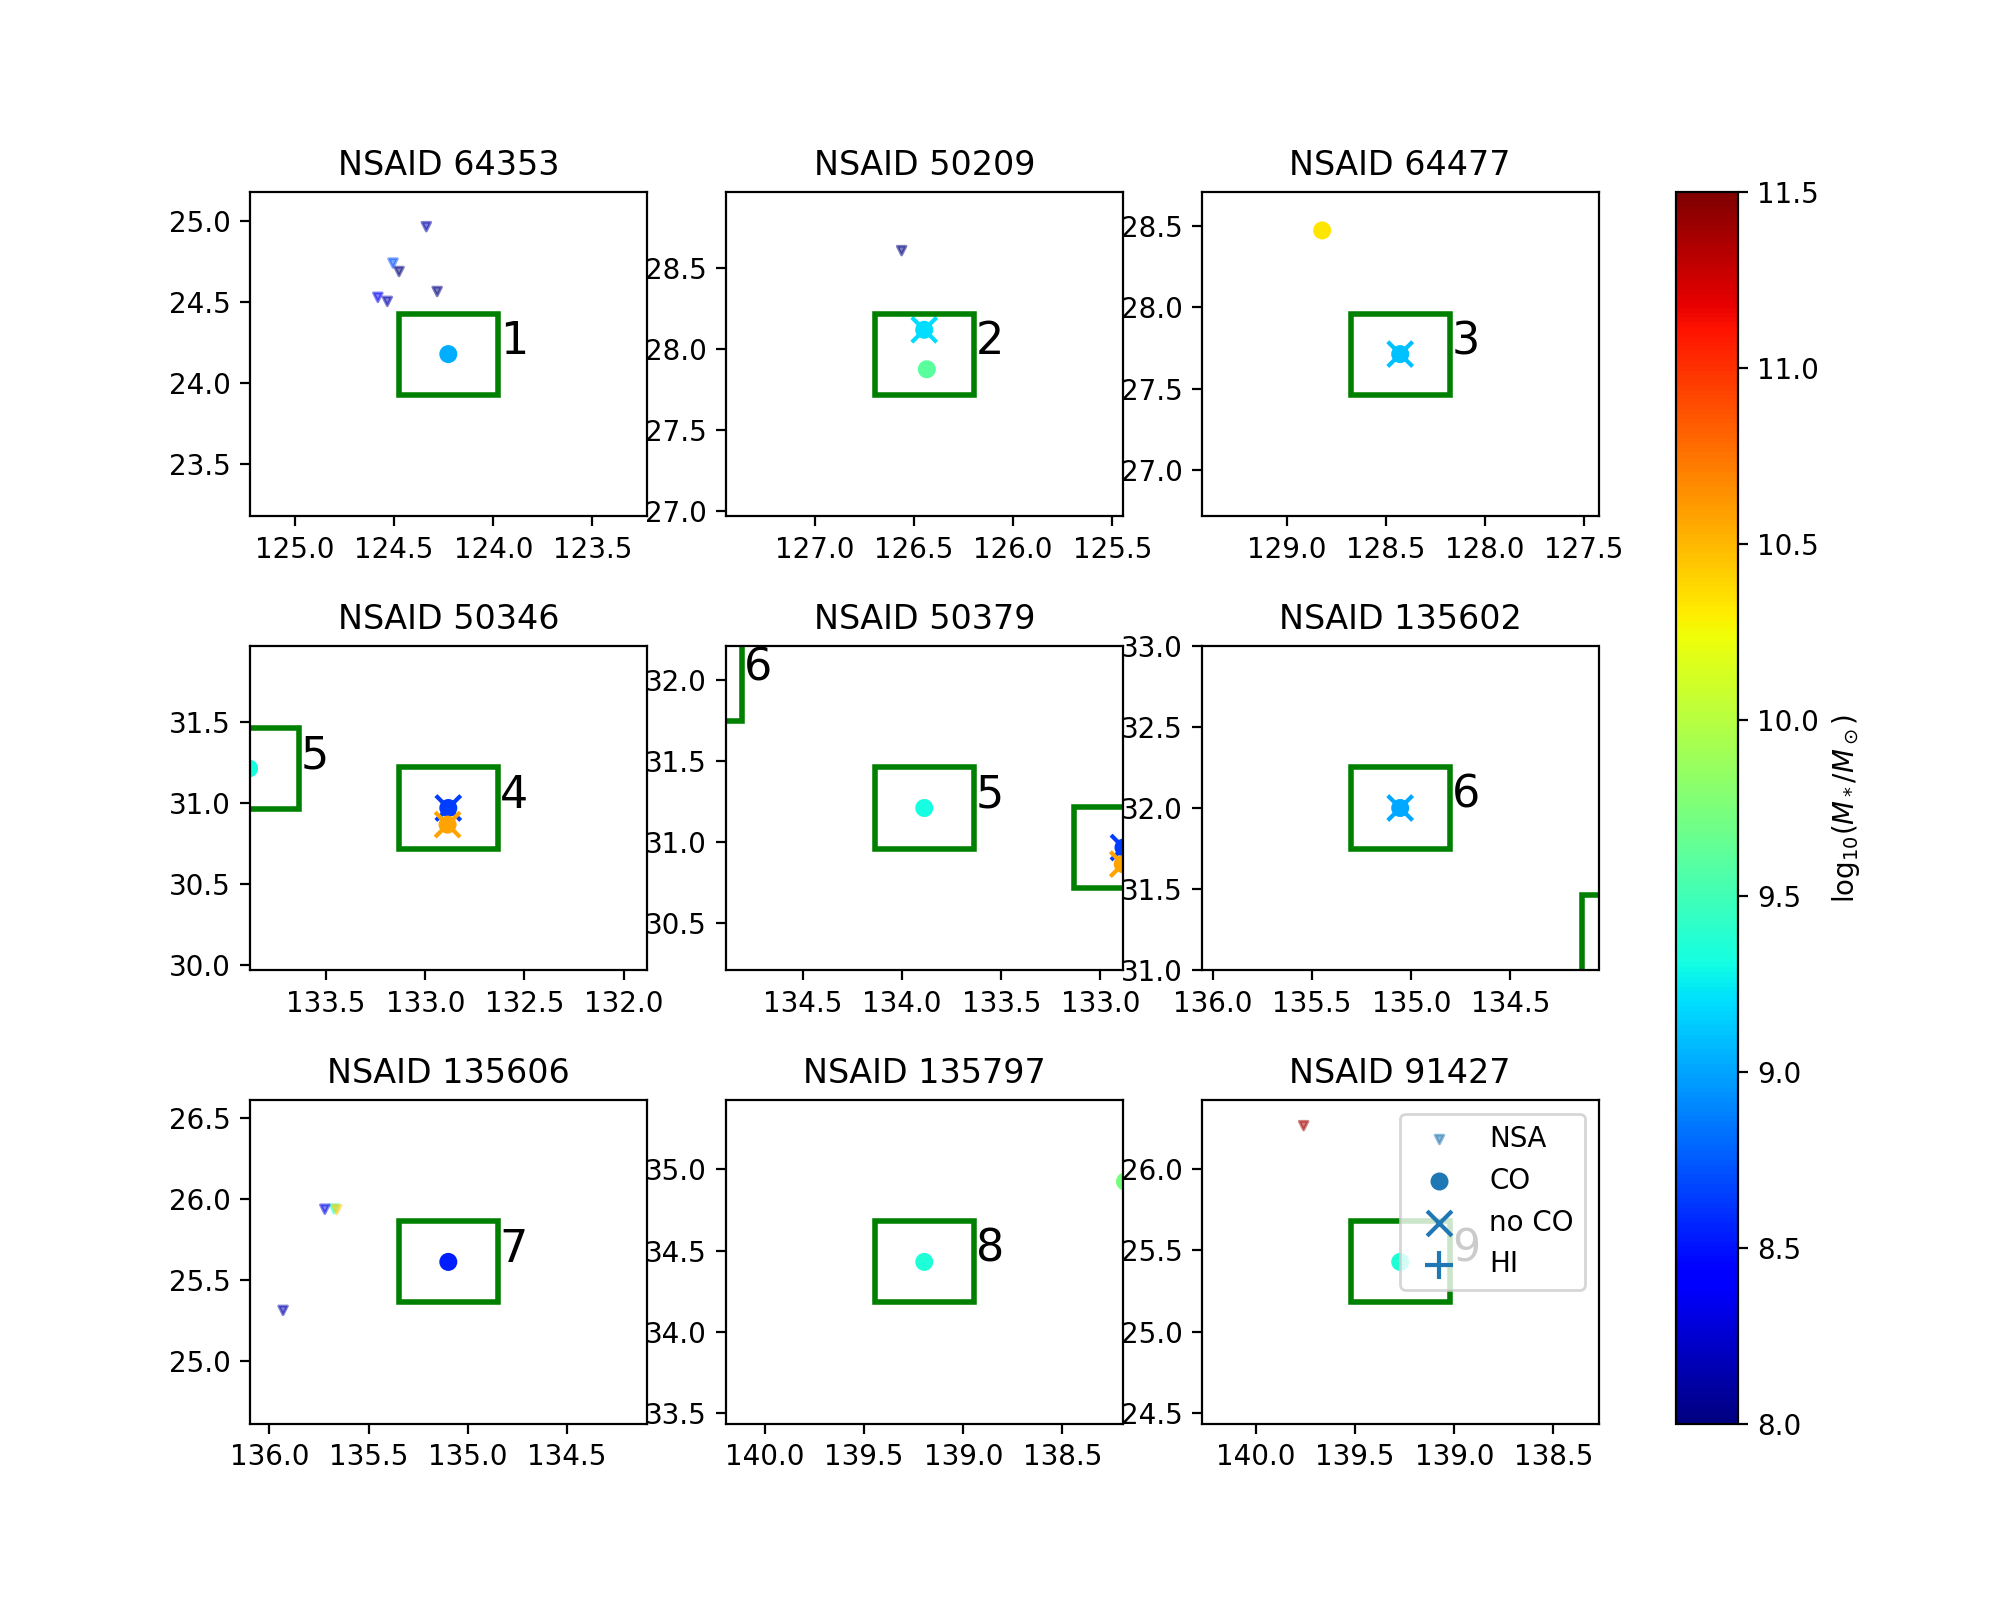
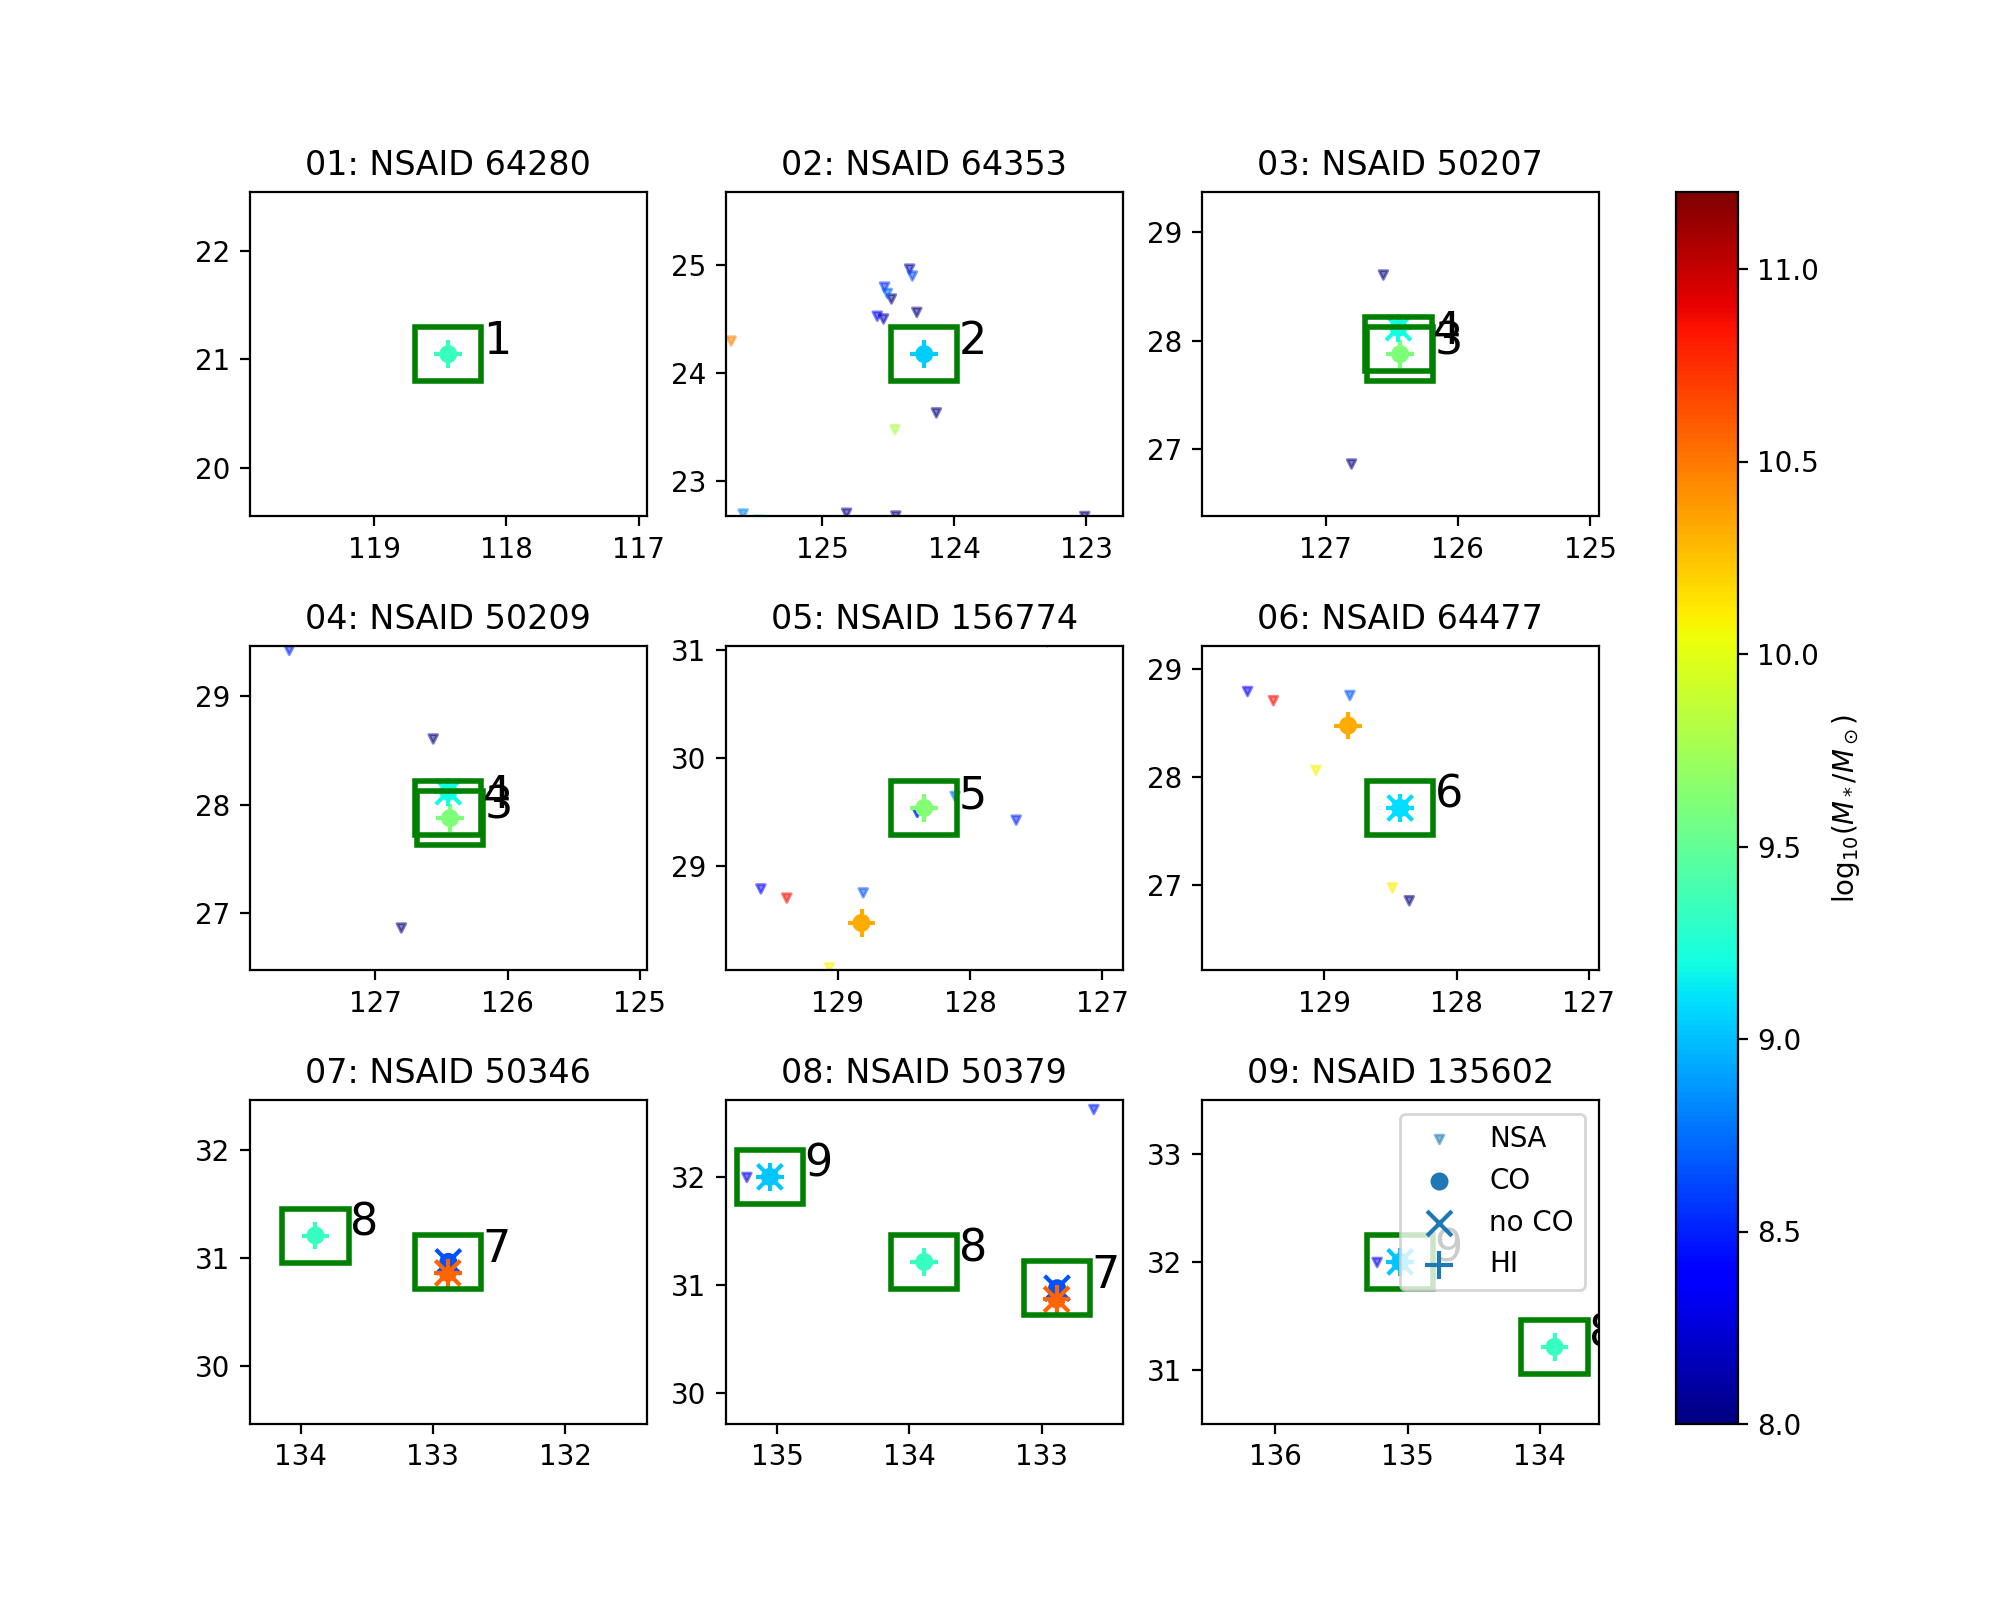
updated observing plots

diff --git a/programs/kpno-halpha.py b/programs/kpno-halpha.py
@@ -405,11 +405,12 @@ def finding_chart(npointing,delta_image = .25,offset_ra=0.,offset_dec=0.,plotsin
     center_ra = pointing_ra[i]+offset_ra
     center_dec = pointing_dec[i] + offset_dec
     print 'center ra, dec = ',center_ra,center_dec
-    if delta_image > .3:
-        plt.subplots_adjust(right=.9,top=.9,bottom=.1,left=.1)
-        plt.figure(figsize=(10,9))
-    else:
-        plt.figure(figsize=(6,6))
+    if plotsingle:
+        if delta_image > .3:
+            plt.subplots_adjust(right=.9,top=.9,bottom=.1,left=.1)
+            plt.figure(figsize=(10,9))
+        else:
+            plt.figure(figsize=(6,6))
     ax=plt.gca()
     pos = coords.SkyCoord(center_ra,center_dec,frame='icrs',unit='degree')
     xout = SkyView.get_images(pos,survey=['DSS'],height=2*delta_image*u.degree,width=2.*delta_image*u.degree)
@@ -422,23 +423,8 @@ def finding_chart(npointing,delta_image = .25,offset_ra=0.,offset_dec=0.,plotsin
     # add footprint of HDI
     rect= plt.Rectangle((center_ra-.25,center_dec-.25), 0.5, 0.5,fill=False, color='k')
     plt.gca().add_artist(rect)
-    # add guidestar cameras
-    # North camera
-    delta_ra = 0
-    delta_dec = 2610./3600
-    width_ra = 3.3/60.
-    width_dec = 2.2/60.
-    rect= plt.Rectangle((center_ra+delta_ra - 0.5*width_ra,center_dec+delta_dec - 0.5*width_dec), width_ra, width_dec,fill=False, color='k')
-    plt.gca().add_artist(rect)
-    # South camera
-    delta_ra = -25./3600
-    delta_dec = -2410./3600
-    width_ra = 3.3/60.
-    width_dec = 2.2/60.
-    rect= plt.Rectangle((center_ra+delta_ra - 0.5*width_ra,center_dec+delta_dec - 0.5*width_dec), width_ra, width_dec,fill=False, color='k')
-    plt.gca().add_artist(rect)
+    #add_cameras()
     # find galaxies on FOV
-
     gals = (nsa.RA > (center_ra-delta_image)) & (nsa.RA < (center_ra+delta_image)) & (nsa.DEC > (center_dec-delta_image)) & (nsa.DEC < (center_dec+delta_image))
     print 'pointing ',i+1,' ngal = ',np.sum(gals)
     gindex=np.arange(len(nsa.RA))[gals]
@@ -469,11 +455,122 @@ def finding_chart(npointing,delta_image = .25,offset_ra=0.,offset_dec=0.,plotsin
     if plotsingle:
         plt.savefig(outfile_prefix+'Pointing%02d.png'%(i+1))
 
+def add_cameras():
+    # add guidestar cameras
+    # North camera
+    delta_ra = 0
+    delta_dec = 2610./3600
+    width_ra = 3.3/60.
+    width_dec = 2.2/60.
+    rect= plt.Rectangle((center_ra+delta_ra - 0.5*width_ra,center_dec+delta_dec - 0.5*width_dec), width_ra, width_dec,fill=False, color='k')
+    plt.gca().add_artist(rect)
+    # South camera
+    delta_ra = -25./3600
+    delta_dec = -2410./3600
+    width_ra = 3.3/60.
+    width_dec = 2.2/60.
+    rect= plt.Rectangle((center_ra+delta_ra - 0.5*width_ra,center_dec+delta_dec - 0.5*width_dec), width_ra, width_dec,fill=False, color='k')
+    plt.gca().add_artist(rect)
 
-def guide_stars(npointing,offset_ra=0.,offset_dec=0.):
+    
+def finding_chart_with_guide_stars(npointing,offset_ra=0.,offset_dec=0.):
     finding_chart(npointing, delta_image=.75,offset_ra=offset_ra, offset_dec=offset_dec,plotsingle=False)
     plt.savefig(outfile_prefix+'Pointing%02d-guiding.png'%(npointing))
 
+def make_all_platinum():
+    if max_pointing != None:
+        pointing_range = range(max_pointing)
+    else:
+        pointing_range = range(len(pointing_ra))
+    for i in pointing_range:
+        plt.close('all')
+        platinum_finding_chart(i+1)
+
+def platinum_finding_chart(npointing,offset_ra=0.,offset_dec=0.):
+    fig = plt.figure(figsize = (10,6))
+    grid = plt.GridSpec(2,3,hspace=.4,wspace=.2,left=.05)
+    hdi = fig.add_subplot(grid[:,:-1])
+    finding_chart(npointing,offset_ra=offset_ra,offset_dec=offset_dec,plotsingle=False)
+    south_camera = fig.add_subplot(grid[1,2])
+    show_guide_camera(npointing,south_camera=True,offset_ra=offset_ra,offset_dec=offset_dec,plotsingle=False)
+    north_camera = fig.add_subplot(grid[0,2])
+    show_guide_camera(npointing,south_camera=False,offset_ra=offset_ra,offset_dec=offset_dec,plotsingle=False)
+    plt.savefig(outfile_prefix+'Pointing%02d-platinum.png'%(npointing))
+    
+def guide_cameras(npointing,offset_ra=0,offset_dec=0):
+    i = npointing - 1
+
+    plt.figure(figsize=(10,5))
+    plt.subplots_adjust(wspace=.3)
+    plt.subplot(1,2,1)
+    show_guide_camera(npointing,south_camera=False,offset_ra=offset_ra,offset_dec=offset_dec,plotsingle=False)
+    plt.subplot(1,2,2)
+    show_guide_camera(npointing,south_camera=True,offset_ra=offset_ra,offset_dec=offset_dec,plotsingle=False)
+
+    mytitle = "Guide Cameras: Pointing %02d (NSAID %i)"%((i+1),pointing_id[i])
+    ax = plt.gca()
+    plt.text(-.1,1.15,mytitle,transform=ax.transAxes,horizontalalignment='center',fontsize=18)
+
+        
+def show_guide_camera(npointing,south_camera=True,offset_ra=0,offset_dec=0,plotsingle=True):
+    '''
+    offset_ra in arcsec
+    offset_dec in arcsec
+
+    camera = 0 for south
+    camera = 1 for north
+    '''
+    i = npointing-1
+    if south_camera:
+        # South camera
+        delta_ra = -25./3600
+        delta_dec = -2410./3600
+        width_ra = 3.3/60.
+        width_dec = 2.2/60.
+        outputfile=outfile_prefix+'Pointing%02d-guiding-south.png'%(npointing)
+        mytitle = "Pointing %02d South Camera (3.3'x2.2'): NSAID %i"%((i+1),pointing_id[i])
+    else:
+        # offsets and dimensions of 
+        # North camera
+        delta_ra = 0
+        delta_dec = 2610./3600
+        width_ra = 3.3/60.
+        width_dec = 2.2/60.
+        outputfile=outfile_prefix+'Pointing%02d-guiding-north.png'%(npointing)
+        mytitle = "Pointing %02d North Camera (3.3'x2.2'): NSAID %i"%((i+1),pointing_id[i])
+    center_ra = pointing_ra[i]+offset_ra/3600. + delta_ra
+    center_dec = pointing_dec[i] + offset_dec/3600. + delta_dec
+
+    delta_image = width_ra
+    if plotsingle:
+        plt.figure(figsize=(6,6))
+    ax = plt.gca()
+    pos = coords.SkyCoord(center_ra,center_dec,frame='icrs',unit='degree')
+    xout = SkyView.get_images(pos,survey=['DSS'],height=2*delta_image*u.degree,width=2.*delta_image*u.degree)
+    b=xout[0][0]
+    ax.imshow(xout[0][0].data,interpolation='none',aspect='equal',cmap='gray_r',extent=[b.header['CRVAL1']-(b.header['NAXIS1']-b.header['CRPIX1'])*b.header['CDELT1'],
+                                                           b.header['CRVAL1']+(b.header['NAXIS1']-b.header['CRPIX1'])*b.header['CDELT1'],
+                                                           b.header['CRVAL2']+(b.header['NAXIS2']-b.header['CRPIX2'])*b.header['CDELT2'],
+                                                           b.header['CRVAL2']-(b.header['NAXIS2']-b.header['CRPIX2'])*b.header['CDELT2']])
+
+    rect= plt.Rectangle((center_ra - 0.5*width_ra,center_dec - 0.5*width_dec), width_ra, width_dec,fill=False, color='k')
+    plt.gca().add_artist(rect)
+    if plotsingle:
+        plt.title(mytitle)
+    else:
+        if south_camera:
+            plt.title("South Camera (3.3'x2.2')")
+        else:
+            plt.title("North Camera (3.3'x2.2')")
+    plt.xlabel('RA (deg)')
+    plt.ylabel('DEC (deg)')
+    plt.gca().invert_yaxis()
+    if plotsingle:
+        plt.savefig(outputfile)
+
+
+
+        
 def airmass_plots():
 
     kpno = Observer.at_site("Kitt Peak", timezone="US/Mountain")
